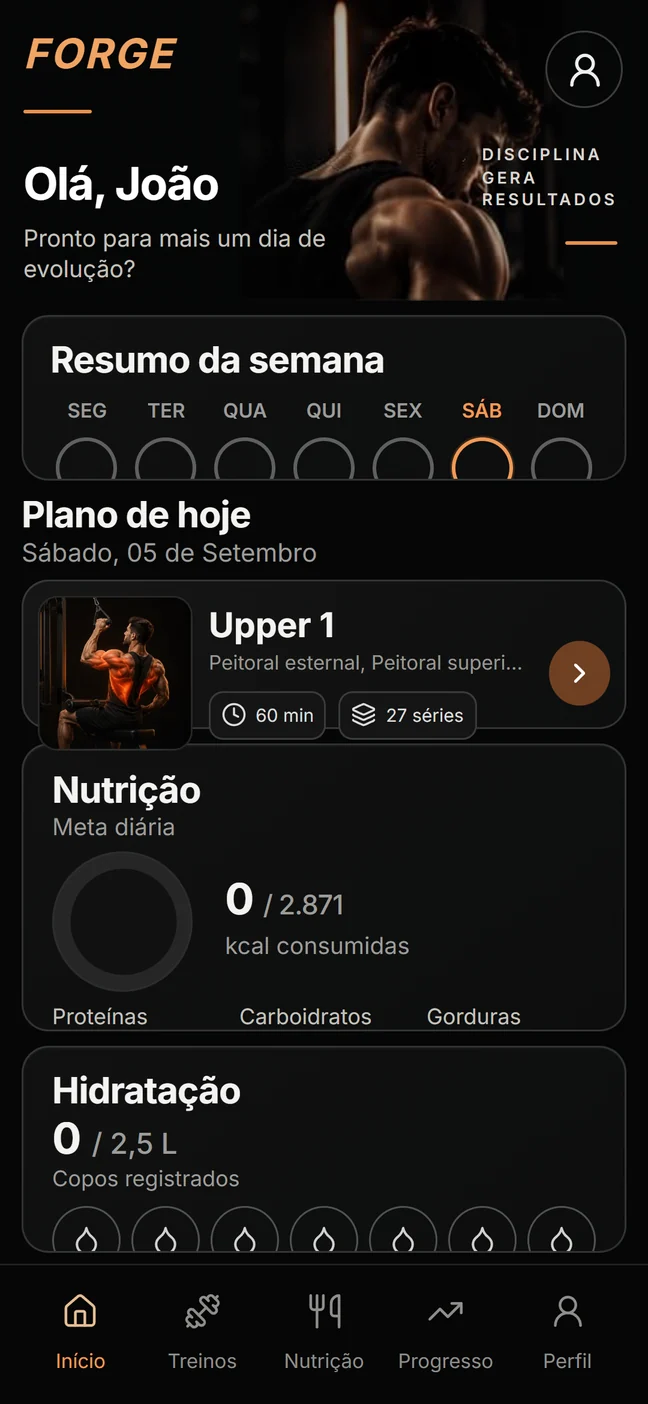
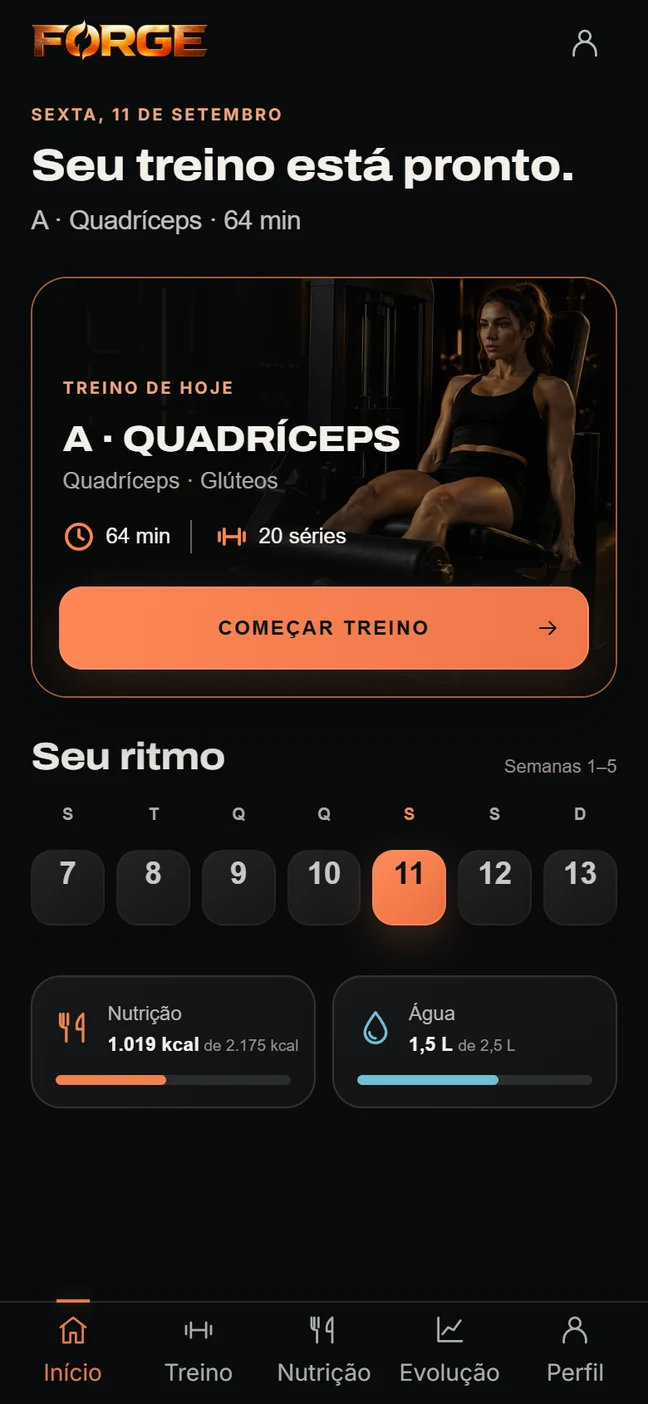
feat(landing): capturas reais do produto novo, alternando atleta e atleta
A landing anunciava um aplicativo que nao existe mais. As quatro capturas eram da Home
anterior a todo o trabalho recente — e as quatro eram masculinas.

CAPTURAS REFEITAS, do produto rodando, alternando por secao:
  Treino    feminino   programa feminino real (leg press, agachamento calice, cadeira
                       extensora, bulgaro, avanco), com RIR e series do proprio motor
  Nutricao  masculino
  Inicio    feminino   "A · QUADRICEPS" em uma linha, que era justamente o nome que
                       partia no meio antes da correcao
  Evolucao  masculino  curva real de 88,8 -> 96,8 kg em quatro semanas

Nada de maquete: a atleta passou de verdade pela avaliacao pela rota real, entao o
programa e a arte sao os que o produto escolhe para ela. As capturas mostravam
"0 kcal · 0% da meta", que numa pagina de venda comunica aplicativo vazio; o uso do dia
foi registrado pelas rotas do produto e os numeros que aparecem sao calculados pelo motor.
O atleta de teste foi restaurado ao estado original ao fim. Banco local, conferido antes
de qualquer escrita.

A aba anunciada dizia "Progresso" e o aplicativo passou a dizer "Evolucao".

TOKENS: os nomes locais (`--lp-*`) continuam, mas os valores passam a vir de
`forge-tokens.css`. Eles ja eram os mesmos tons — `--lp-acento` era exatamente o `#e36b4d`
do produto — so que duplicados: mudar a cor do FORGE mudaria o aplicativo e deixaria a
landing para tras, e ninguem perceberia ate um cliente ver as duas telas lado a lado.
[…]

diff --git a/frontend/src/features/landing-premium.css b/frontend/src/features/landing-premium.css
@@ -38,12 +38,23 @@ body.lp-ativa {
 }
 
 .landing-premium {
-  --lp-bg: #0c0d0f;
-  --lp-superficie: #141619;
-  --lp-linha: #34383d;
-  --lp-texto: #f2f0ea;
-  --lp-suave: #a7aaa8;
-  --lp-acento: #e36b4d;
+  /*
+   * Os nomes locais continuam, mas os VALORES vem do sistema (`forge-tokens.css`).
+   *
+   * Eles ja eram os mesmos tons — `--lp-acento` era exatamente o `#e36b4d` do produto, e o
+   * resto ficava a um ou dois pontos de distancia. Duplicados, porem: mudar a cor do FORGE
+   * mudaria o aplicativo e deixaria a landing para tras, e ninguem perceberia ate um
+   * cliente ver as duas telas lado a lado. Referenciando, existe um lugar so.
+   *
+   * O segundo valor de cada `var()` e a reserva: se a folha de tokens nao carregar, a
+   * pagina publica continua com a cor certa em vez de cair no preto do navegador.
+   */
+  --lp-bg: var(--fg-fundo, #0c0d0f);
+  --lp-superficie: var(--fg-superficie, #141619);
+  --lp-linha: var(--fg-linha-forte, #34383d);
+  --lp-texto: var(--fg-texto, #f2f0ea);
+  --lp-suave: var(--fg-texto-2, #a7aaa8);
+  --lp-acento: var(--fg-acao, #e36b4d);
 
   --lp-titulo: 'Archivo', 'Sora', system-ui, sans-serif;
   --lp-corpo: 'Inter', 'IBM Plex Sans', system-ui, sans-serif;
@@ -572,8 +583,10 @@ body.lp-ativa {
   flex-direction: column;
   gap: 22px;
   padding: 40px 28px 34px;
-  border-radius: 16px;
-  border: 1px solid rgba(227, 141, 110, 0.13);
+  /* Mesma gramatica de cartao do aplicativo: 18px de raio e a linha do sistema. Um cliente
+     que ve a landing e depois entra no produto tem de reconhecer a mesma mao. */
+  border-radius: 18px;
+  border: 1px solid var(--fg-linha, #282c31);
   /* Grafite com profundidade: mais claro em cima, fechando para baixo. Sem isto o cartao
      some no fundo da pagina, que e da mesma familia de cor. */
   background:
@@ -619,7 +632,7 @@ body.lp-ativa {
   top: -10px;
   right: 22px;
   background: var(--lp-acento);
-  color: #17110e;
+  color: var(--fg-acao-tinta, #17110e);
   padding: 3px 8px;
   font-family: var(--lp-mono);
   font-size: 9px;

diff --git a/frontend/src/features/LandingStorytelling.jsx b/frontend/src/features/LandingStorytelling.jsx
@@ -9,7 +9,7 @@ import telaProgresso from "../assets/forge-tela-progresso.webp";
  * O storytelling: o painel fica preso na tela e o scroll vertical dirige a passagem
  * horizontal das telas reais do FORGE.
  *
- *   Treino -> Nutricao -> Inicio -> Progresso
+ *   Treino -> Nutricao -> Inicio -> Evolucao
  *
  * O hero mostra as tres juntas; aqui elas se separam e cada area e explicada sozinha.
  *
@@ -84,7 +84,7 @@ export const TELAS = [
   {
     id: "progresso",
     src: telaProgresso,
-    aba: "Progresso",
+    aba: "Evolução",
     indice: "04",
     titulo: "A evolução fica registrada, não na sua memória.",
     texto:
